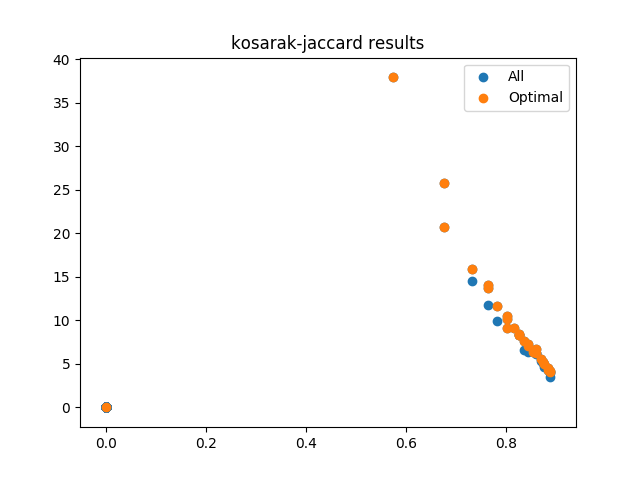
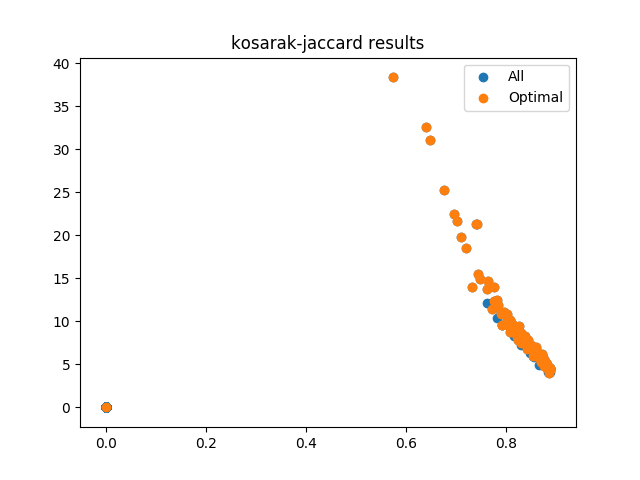
Computed a decent looking boundary. 0.8 recall at 10.48 queries / second

diff --git a/examples/ann-benchmarks/jaccard.py b/examples/ann-benchmarks/jaccard.py
@@ -1,5 +1,4 @@
 import itertools
-import json
 import os
 import sys
 from time import time
@@ -43,8 +42,8 @@ def main():
     dataset = open_dataset(os.path.join(ANNB_ROOT, f"{dsname}.hdf5"))
     print(f"Loaded {len(dataset.corpus)} vectors and {len(dataset.queries)} queries")
 
-    num_tables = [('num_tables', t) for t in range(10, 121, 10)]
-    num_bands = [('num_bands', b) for b in range(5, 81, 5)]
+    num_tables = [('num_tables', t) for t in range(10, 121, 5)]
+    num_bands = [('num_bands', b) for b in range(5, 103, 3)]
     num_rows = [('num_rows', r) for r in range(1, 2)]
 
     combinations = list(map(dict, itertools.product(num_tables, num_bands, num_rows)))
